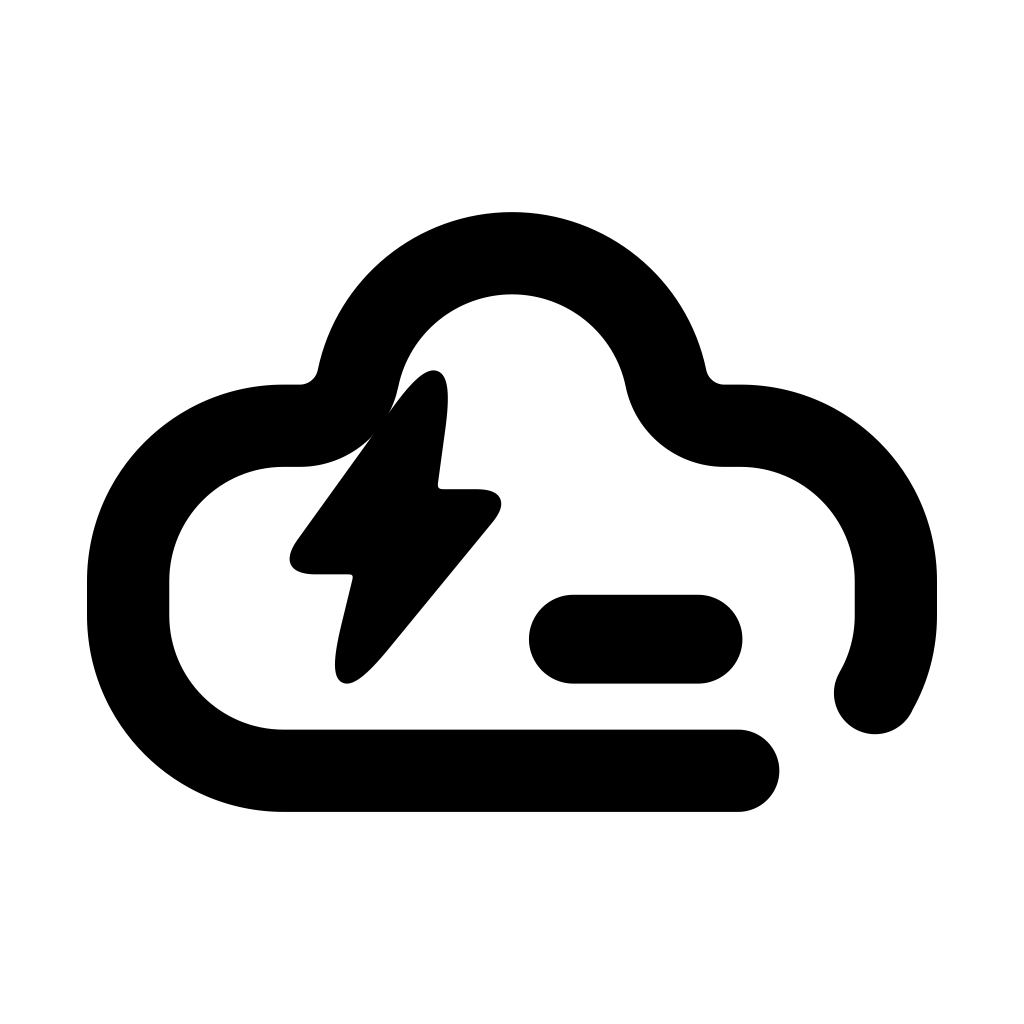
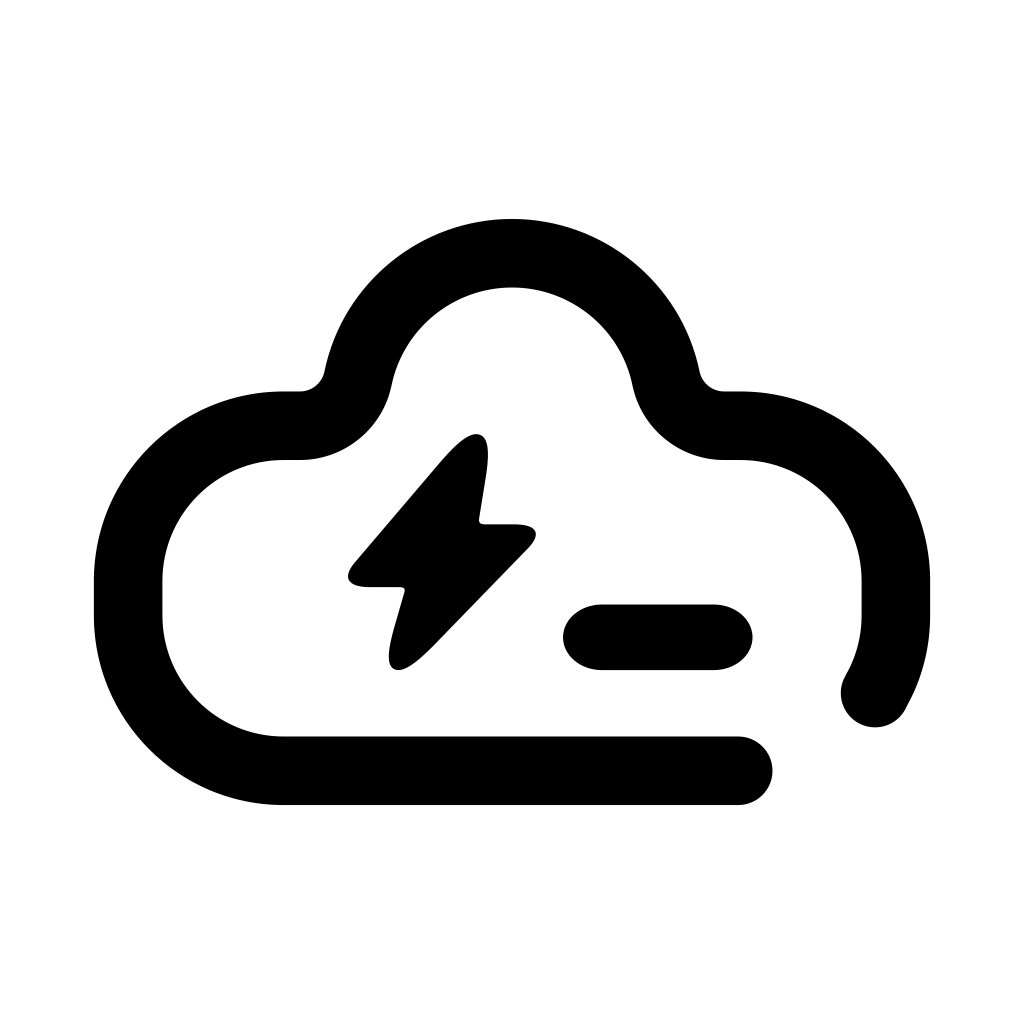
Keep menu bar glyphs separated at small sizes

diff --git a/scripts/assets/build_liquid_glass_icons.swift b/scripts/assets/build_liquid_glass_icons.swift
@@ -103,15 +103,17 @@ for (index,name) in names.enumerated() {
         ],"groups":groups,"supported-platforms":["squares":["macOS"]]
     ]
     try JSONSerialization.data(withJSONObject:config,options:[.prettyPrinted,.sortedKeys]).write(to:directory.appendingPathComponent("AppIcon.icon/icon.json"))
-    // The 22-point menu-bar template needs larger, heavier glyphs than Dock.
-    // Keep the same base paths; apply optical compensation only at this surface.
-    let menuGlyphScale:CGFloat=index==2 ? 1.08 : 1.10
-    let menuWeight:CGFloat=index==2 ? 4 : 7
-    var menuTransform=CGAffineTransform(translationX:markBounds.midX,y:markBounds.midY-30)
-        .scaledBy(x:menuGlyphScale,y:menuGlyphScale).translatedBy(x:-markBounds.midX,y:-markBounds.midY)
+    // Fit the menu mark by whitespace, not by maximum glyph size. The open
+    // frame is lighter; glyph height is compact and its optical center shifts
+    // away from the upper-left shoulder. Raster separation is checked below.
+    let menuGlyphScale:CGFloat=index==2 ? 0.97 : 1.10
+    let menuWeight:CGFloat=index==2 ? 3 : 7
+    var menuTransform=CGAffineTransform(translationX:markBounds.midX+(index==2 ? 30 : 0),y:markBounds.midY-(index==2 ? 8 : 30))
+        .scaledBy(x:menuGlyphScale,y:index==2 ? 0.82 : menuGlyphScale).translatedBy(x:-markBounds.midX,y:-markBounds.midY)
     let menuBolt=expand(bolt,menuWeight).copy(using:&menuTransform)!
     let menuCursor=expand(cursor,menuWeight).copy(using:&menuTransform)!
-    let menuShapes:[CGPath]=index==2 ? [opened,menuBolt,menuCursor] : [(index==0 ? rounded : flat).subtracting(menuBolt).subtracting(menuCursor)]
+    let menuFrame=inset(opened,6)
+    let menuShapes:[CGPath]=index==2 ? [menuFrame,menuBolt,menuCursor] : [(index==0 ? rounded : flat).subtracting(menuBolt).subtracting(menuCursor)]
     let bounds=iconBounds
     let rep=NSBitmapImageRep(bitmapDataPlanes:nil,pixelsWide:1024,pixelsHigh:1024,bitsPerSample:8,samplesPerPixel:4,hasAlpha:true,isPlanar:false,colorSpaceName:.deviceRGB,bytesPerRow:0,bitsPerPixel:0)!
     NSGraphicsContext.saveGraphicsState();NSGraphicsContext.current=NSGraphicsContext(bitmapImageRep:rep)
@@ -124,3 +126,9 @@ for (index,name) in names.enumerated() {
     try rep.representation(using:.png,properties:[:])!.write(to:directory.appendingPathComponent("StatusBarIcon.png"))
     print(name)
 }
+
+let legibility=Process()
+legibility.executableURL=URL(fileURLWithPath:"/usr/bin/env")
+legibility.arguments=["swift",root.appendingPathComponent("scripts/assets/check_menu_icon_legibility.swift").path,output.appendingPathComponent("03-open-cloud/StatusBarIcon.png").path]
+try legibility.run();legibility.waitUntilExit()
+if legibility.terminationStatus != 0 { exit(legibility.terminationStatus) }

diff --git a/scripts/assets/check_menu_icon_legibility.swift b/scripts/assets/check_menu_icon_legibility.swift
@@ -1,0 +1,32 @@
+#!/usr/bin/env swift
+import AppKit
+import Foundation
+
+// Regression check for the open-cloud template at real menu-bar raster sizes.
+// Include low-alpha antialias pixels: a 50% threshold alone can hide bridges.
+let source=NSImage(contentsOfFile:CommandLine.arguments[1])!
+for size in [22,44] {
+ let rep=NSBitmapImageRep(bitmapDataPlanes:nil,pixelsWide:size,pixelsHigh:size,bitsPerSample:8,samplesPerPixel:4,hasAlpha:true,isPlanar:false,colorSpaceName:.deviceRGB,bytesPerRow:0,bitsPerPixel:0)!
+ NSGraphicsContext.saveGraphicsState();NSGraphicsContext.current=NSGraphicsContext(bitmapImageRep:rep)
+ source.draw(in:NSRect(x:0,y:0,width:size,height:size));NSGraphicsContext.restoreGraphicsState()
+ for threshold:CGFloat in [0.25,0.5] {
+  var seen=Set<Int>(),counts=[Int]()
+  for y in 0..<size { for x in 0..<size {
+   let start=y*size+x
+   if seen.contains(start) || rep.colorAt(x:x,y:y)!.alphaComponent<threshold {continue}
+   var queue=[start],head=0;seen.insert(start)
+   while head<queue.count {let i=queue[head];head+=1
+    for dy in -1...1 { for dx in -1...1 {let a=i%size+dx,b=i/size+dy
+     if a<0 || a>=size || b<0 || b>=size {continue};let next=b*size+a
+     if !seen.contains(next) && rep.colorAt(x:a,y:b)!.alphaComponent>=threshold {seen.insert(next);queue.append(next)}
+    }}
+   }
+   counts.append(queue.count)
+  }}
+  print(size,threshold,counts.sorted(by:>))
+  if counts.count != 3 {
+   FileHandle.standardError.write(Data("Menu icon joins or fragments at \(size)px, alpha \(threshold): \(counts)\n".utf8))
+   exit(1)
+  }
+ }
+}

diff --git a/assets/app-icon/liquid-glass/README.md b/assets/app-icon/liquid-glass/README.md
@@ -23,10 +23,17 @@ cursor share a baseline. Within the open frame, both use an 86% scale and a
 centered vertically from its outer bounds, so this internal correction does not
 move the whole icon upward.
 
-The menu bar uses a separate optical fit for its 22-point display size. Its glyphs
-use 108% scale with a 4-point weight expansion in the open frame, or 110% scale with
-a 7-point expansion in the filled clouds. A 30-point upward offset retains bottom
-space. This keeps the same shapes while improving small-size legibility.
+The menu bar uses a separate optical fit for its 22-point display size. The open
+frame is inset by 6 source points to reduce its weight. Its glyphs use 97% width,
+82% height, and a 3-point weight expansion. The group moves 30 points right and
+8 points up to leave room at the upper-left shoulder and bottom edge. The filled
+clouds retain their 110% fit and 7-point weight expansion.
+
+`check_menu_icon_legibility.swift` verifies the exported open-cloud PNG at 22 and
+44 pixels, at both 25% and 50% alpha thresholds. The frame, lightning, and cursor
+must remain three separate connected components, including antialiased edges.
+The generator runs this check automatically. Dock geometry is unaffected by the
+menu-bar correction.
 
 ## Native materials
 
